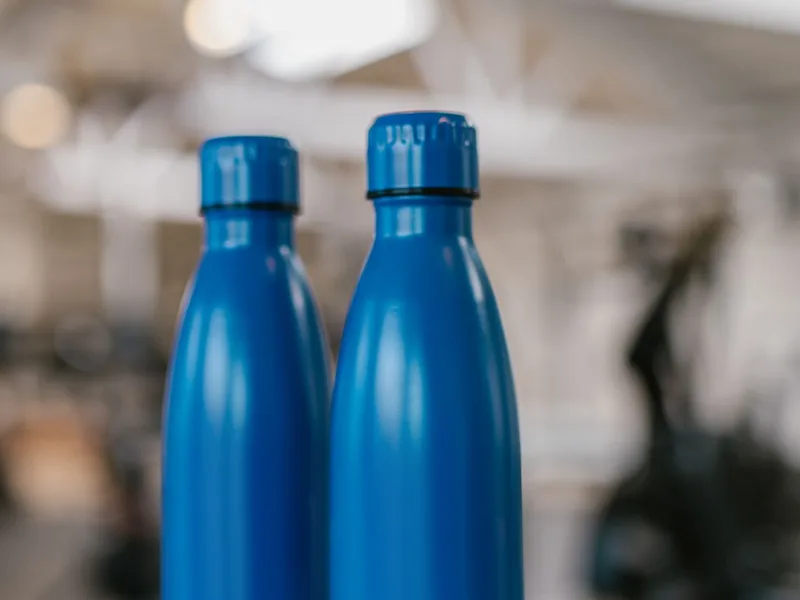
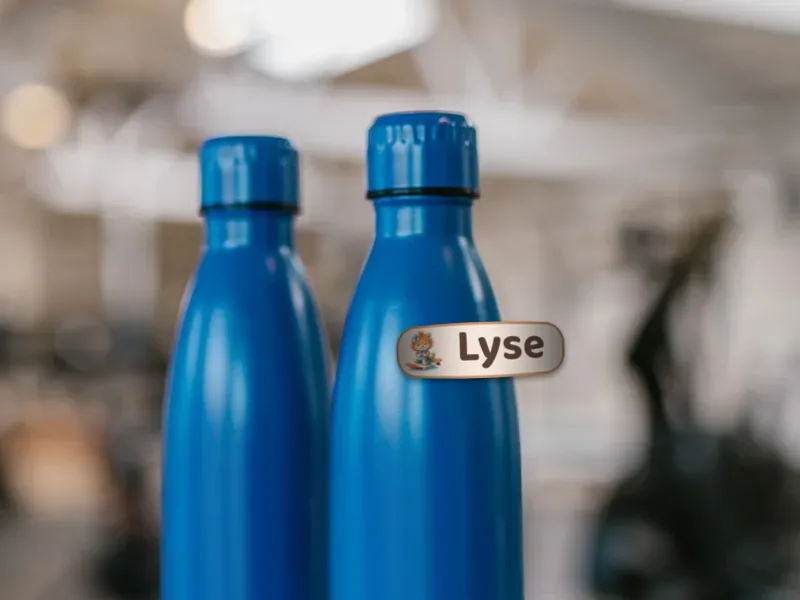
feat(etiquettes): mockups integres (round 2) + 3e police Amelina Colette (#112)
* feat(etiquettes): mockups "En situation" CUITS avec vraie integration (round 2)

Retour Mika round 1 : "n'importe quoi, les stickers sont juste par-dessus, ils
doivent s'adapter a la forme". Les etiquettes etaient des overlays plats.

Round 2 : l'etiquette exemple est CUITE dans la photo par
scripts/generate-etiquettes-mockups.mjs (ImageMagick), avec :
- COURBURE reelle sur les cylindres (Plane2Cylinder, FOV par objet : ~40
  gobelet large, ~60 gourde, ~100 crayon fin ; le crayon est un cylindre
  HORIZONTAL -> rotate 90, warp, rotate -90).
- SHADING des bords enroules (gradient cosinus multiplie sur RGB avant le warp,
  alpha preserve) : la surface qui fuit la lumiere s'assombrit.
- ECHELLE REALISTE : l'etiquette a sa taille relative a l'objet (mini 46x9 =
  presque toute la longueur visible du crayon, sans depasser le fut).
- ROTATION alignee a l'objet (pente du crayon, inclinaison du cahier).
- OMBRE de contact douce sous chaque etiquette.
Ces cartes sont ILLUSTRATIVES (statiques) ; le configurateur garde son apercu
live a lui, c'est deux choses differentes (verdict Mika sur la methode).

OBJETS (nouveaux) : crayon SEUL bien visible (fini le fagot en biais), CAHIER a
surface plate (le plus simple a reussir), gourde + verre gardes mais vraiment
integres. Sources Pexels (licence Pexels, commercial libre, notees dans le
script) : gourde 8611290, verre 38380651, crayon 4237814, cahier 7054764.
La boite a lunch demandee n'existe pas en banque libre exploitable (boites
[…]

Changed region(s): [[0.4688, 0.51, 0.7188, 0.66]]

diff --git a/frontend/src/pages/Etiquettes.jsx b/frontend/src/pages/Etiquettes.jsx
@@ -518,59 +518,32 @@ export default function Etiquettes() {
       </section>
 
 
-      {/* ============ EN SITUATION (mockups sur VRAIES photos) ============
-          Photos PEXELS (licence Pexels : usage commercial libre, modification
-          permise) recadrees en dur au ratio 4:3 des tuiles -> les ancres en %
-          ne glissent jamais. L'etiquette configuree (le vrai EtiquettePreview)
-          est POSEE sur l'objet : courbure perspective selon la surface, double
-          ombre de contact (serree + douce) pour l'effet colle. Sources :
-          gourde = pexels.com/photo/8611290 (RDNE Stock project),
-          verre = pexels.com/photo/38380651 (Ann H),
-          crayons = pexels.com/photo/730704 (Jess Bailey Designs).
+      {/* ============ EN SITUATION (mockups STATIQUES composes) ============
+          Round 2 (verdict Mika : "les stickers doivent s'adapter a la forme") :
+          l'etiquette exemple est CUITE dans la photo par
+          scripts/generate-etiquettes-mockups.mjs - vrai warp cylindrique
+          (Plane2Cylinder), shading des bords enroules, echelle reelle relative
+          a l'objet, ombre de contact. Ces cartes sont ILLUSTRATIVES : le
+          configurateur garde son apercu live a lui. Photos Pexels (licence
+          Pexels, commercial libre) : gourde 8611290 (RDNE Stock project),
+          verre 38380651 (Ann H), crayon 4237814, cahier 7054764. Etiquettes :
+          4 designs, prenom Lyse. RELANCER le script apres tout changement.
           La ligne sous la section leve toute ambiguite : Massive vend LES
           ETIQUETTES, pas les objets. */}
       <section className="section-container">
         <h2 className="text-2xl md:text-3xl font-heading font-bold text-heading mb-8 text-center">
           {tx({ fr: 'En situation', en: 'In the wild', es: 'En situación' })}
         </h2>
-        <div className="grid sm:grid-cols-3 gap-4 max-w-4xl mx-auto">
+        <div className="grid sm:grid-cols-2 lg:grid-cols-4 gap-4 max-w-6xl mx-auto">
           {[
-            {
-              img: '/images/etiquettes/mockup-gourde.webp',
-              slug: 'massive-renard', formatIdx: 1,
-              anchor: { left: '63%', top: '56%' },
-              pose: 'perspective(420px) rotateY(10deg) rotate(-2deg) scale(0.28)',
-              legend: { fr: 'Sur sa gourde', en: 'On their bottle', es: 'En su botella' },
-            },
-            {
-              img: '/images/etiquettes/mockup-verre.webp',
-              slug: 'massive-alien-vert', formatIdx: 1,
-              anchor: { left: '48%', top: '62%' },
-              pose: 'perspective(520px) rotateY(-6deg) rotateX(3deg) rotate(1deg) scale(0.42)',
-              legend: { fr: 'Sur son verre', en: 'On their cup', es: 'En su vaso' },
-            },
-            {
-              img: '/images/etiquettes/mockup-crayons.webp',
-              slug: 'massive-tortue', formatIdx: 0,
-              anchor: { left: '42%', top: '57%' },
-              pose: 'rotate(-3deg) scale(0.62)',
-              legend: { fr: 'Sur ses crayons (format mini)', en: 'On their pencils (mini size)', es: 'En sus lápices (formato mini)' },
-            },
+            { img: '/images/etiquettes/mockup-gourde.webp', legend: { fr: 'Sur sa gourde', en: 'On their bottle', es: 'En su botella' } },
+            { img: '/images/etiquettes/mockup-verre.webp', legend: { fr: 'Sur son verre', en: 'On their cup', es: 'En su vaso' } },
+            { img: '/images/etiquettes/mockup-crayon.webp', legend: { fr: 'Sur ses crayons (format mini)', en: 'On their pencils (mini size)', es: 'En sus lápices (mini)' } },
+            { img: '/images/etiquettes/mockup-cahier.webp', legend: { fr: 'Sur ses cahiers', en: 'On their notebooks', es: 'En sus cuadernos' } },
           ].map((m) => (
             <div key={m.img} className="surface-vitrine card-shadow rounded-2xl relative overflow-hidden aspect-[4/3] w-full max-w-[340px] mx-auto">
-              <img src={m.img} alt="" aria-hidden="true" loading="lazy" decoding="async"
+              <img src={m.img} alt={tx(m.legend)} loading="lazy" decoding="async"
                 className="absolute inset-0 w-full h-full object-cover" />
-              <div
-                className="absolute"
-                style={{
-                  left: m.anchor.left, top: m.anchor.top,
-                  transform: `translate(-50%, -50%) ${m.pose}`,
-                  filter: 'drop-shadow(0 1px 1px rgba(0,0,0,0.35)) drop-shadow(0 4px 8px rgba(0,0,0,0.18))',
-                }}
-              >
-                <EtiquettePreview slug={m.slug} combo={(ETIQUETTES_PALETTES[m.slug] || [])[0] || { bg: '#fff', stroke: '#333', text: '#222' }}
-                  format={ETIQUETTE_FORMATS[m.formatIdx]} font={ETIQUETTE_FONTS[0]} line1={SAMPLE_NAMES[lang]} line2="" lang={lang} showDims={false} />
-              </div>
               <div className="absolute inset-x-0 bottom-0 h-12 bg-gradient-to-t from-black/50 to-transparent" aria-hidden="true" />
               <span className="absolute bottom-2 left-0 right-0 text-center text-white/95 text-xs font-medium [text-shadow:0_1px_3px_rgba(0,0,0,0.6)]">
                 {tx(m.legend)}
@@ -580,9 +553,9 @@ export default function Etiquettes() {
         </div>
         <p className="text-grey-muted text-xs text-center mt-4 max-w-xl mx-auto">
           {tx({
-            fr: 'Les objets sont montrés à titre d’exemple seulement : Massive fournit les étiquettes, pas les gourdes, verres ou crayons.',
-            en: 'Objects are shown as examples only: Massive supplies the labels, not the bottles, cups or pencils.',
-            es: 'Los objetos se muestran solo como ejemplo: Massive suministra las etiquetas, no las botellas, vasos ni lápices.',
+            fr: 'Les objets sont montrés à titre d\u2019exemple seulement : Massive fournit les étiquettes, pas les gourdes, verres, crayons ou cahiers.',
+            en: 'Objects are shown as examples only: Massive supplies the labels, not the bottles, cups, pencils or notebooks.',
+            es: 'Los objetos se muestran solo como ejemplo: Massive suministra las etiquetas, no las botellas, vasos, lápices ni cuadernos.',
           })}
         </p>
       </section>

diff --git a/frontend/src/data/etiquettes.js b/frontend/src/data/etiquettes.js
@@ -184,27 +184,31 @@ export const ETIQUETTE_PACKS = [
 ]
 
 /**
- * POLICES : SF Pro Rounded est proprietaire Apple (pas de licence web) ->
- * 3 jumelles libres (Google Fonts, chargees dans index.html). Mika tranche en
- * Phase 1 ; l'architecture accepte d'autres familles (ajouter ici + le <link>).
- */
-/**
  * POLICES au choix du client (DECISION Mika 15 juillet : le configurateur
- * offre plusieurs fonts, pattern du marche).
- * - Baloo 2 : gardee (Google Fonts, OFL).
- * - Homemade Apple : ajoutee (Google Fonts, Apache 2.0 = OK commercial).
- * - Amelina Colette : ECARTEE - l'EULA 1001Fonts fournie est "Free For
- *   PERSONAL Use", usage commercial interdit sans licence achetee a l'auteur.
- *   Jamais de font sans droit commercial sur un produit vendu. Si Mika achete
- *   la licence : subsetter le TTF en woff2 local et l'ajouter ici.
- * `tooThinFormats` : formats ou la font est illisible A TAILLE REELLE
- * (traits trop fins pour impression + lamination + decoupe) -> grisee dans le
+ * offre plusieurs fonts, pattern du marche). SF Pro Rounded (l'inspiration)
+ * est proprietaire Apple -> exclue d'office.
+ * - Baloo 2 : Google Fonts, OFL. Sans-serif rond gras, lisible A TOUS formats.
+ * - Homemade Apple : Google Fonts, Apache 2.0. Script fin au stylo.
+ * - Amelina Colette : AJOUTEE a la demande de Mika (15 juillet). Feutre rond
+ *   epais. Self-hostee en woff2 local (public/fonts/amelina-colette.woff2,
+ *   sous-ensemble Latin + accents FR/ES) via un @font-face dans index.css.
+ *   *** LICENCE A REGLER AVANT LE LANCEMENT PUBLIC (Phase 3) ***
+ *   L'EULA 1001Fonts fournie par Mika est "Free For PERSONAL Use" : usage
+ *   commercial interdit SANS accord ecrit de l'auteur. La conversion woff2 est
+ *   permise par la licence (section 5), et la page reste DERRIERE LE FLAG
+ *   (rien vendu), donc on est en evaluation - pas en infraction. Mais avant de
+ *   vendre (flag ON), Mika DOIT acheter la licence commerciale ou on retire
+ *   cette font. Ne pas allumer ETIQUETTES_ENABLED sans ce feu vert.
+ * `tooThinFormats` : formats ou la font est illisible A TAILLE REELLE (traits
+ * trop fins pour impression + lamination + decoupe) -> grisee dans le
  * selecteur avec une note, pour qu'un parent ne commande jamais d'illisible.
- * Chargement SCOPE a la page Mini Massive via ETIQUETTE_FONTS_CSS_URL
- * (rien dans index.html, zero poids pour le reste du site).
+ * Chargement SCOPE a Mini Massive : Google (Baloo+Homemade) via
+ * ETIQUETTE_FONTS_CSS_URL injecte par la page ; Amelina via @font-face
+ * index.css (le woff2 n'est telecharge que quand un texte l'utilise, ici).
  */
 export const ETIQUETTE_FONTS = [
   { id: 'baloo', label: 'Baloo 2', family: "'Baloo 2', sans-serif", weight: 700, tooThinFormats: [] },
+  { id: 'amelina-colette', label: 'Amélina Colette', family: "'Amelina Colette', cursive", weight: 400, tooThinFormats: [] },
   { id: 'homemade-apple', label: 'Homemade Apple', family: "'Homemade Apple', cursive", weight: 400, tooThinFormats: ['mini'] },
 ]
 export const ETIQUETTE_FONTS_CSS_URL = 'https://fonts.googleapis.com/css2?family=Baloo+2:wght@700&family=Homemade+Apple&display=swap'

diff --git a/frontend/src/index.css b/frontend/src/index.css
@@ -1,5 +1,18 @@
 @import "tailwindcss";
 
+/* Amelina Colette : police du configurateur Mini Massive, self-hostee (woff2
+   sous-ensemble local). Le fichier n'est telecharge QUE quand un texte utilise
+   cette famille (page Mini Massive) - zero poids ailleurs. `swap` : Baloo 2
+   rend d'abord, l'auto-fit re-mesure sur document.fonts loadingdone.
+   LICENCE personal-use a regler avant vente publique - voir data/etiquettes.js. */
+@font-face {
+  font-family: 'Amelina Colette';
+  font-style: normal;
+  font-weight: 400;
+  font-display: swap;
+  src: url('/fonts/amelina-colette.woff2') format('woff2');
+}
+
 /* Global: all buttons and clickable elements get pointer cursor */
 button, [role="button"], a, label[class*="cursor"], select, input[type="checkbox"], input[type="radio"] {
   cursor: pointer;
